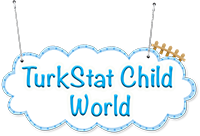
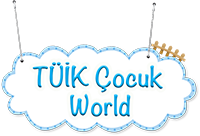
image edits

Changed region(s): [[0.09, 0.4412, 0.87, 0.6765]]

diff --git a/public/index.html b/public/index.html
@@ -38,7 +38,7 @@
       work correctly both with client-side routing and a non-root public URL.
       Learn how to configure a non-root public URL by running `npm run build`.
     -->
-    <title>TurkStat Child</title>
+    <title>TÜİK Çocuk</title>
   </head>
   <body>
     <noscript>You need to enable JavaScript to run this app.</noscript>
